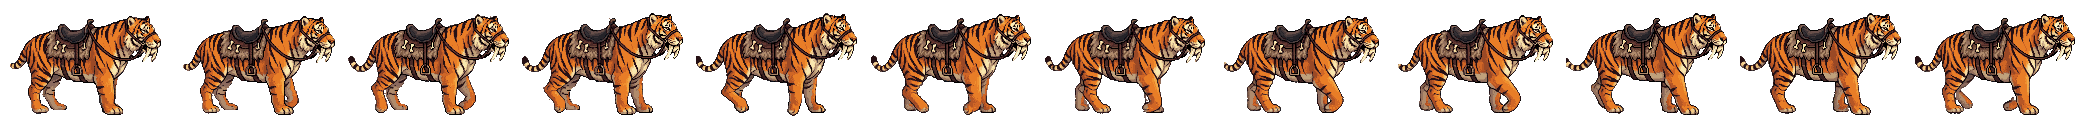
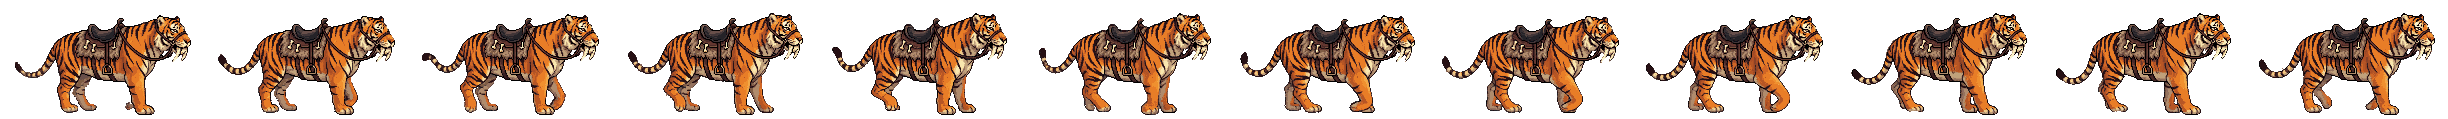
Mounts: the tiger's whole tail in every frame
Drawn again on the wider canvas: of four, 13525205 keeps the whole
striped tail with its black tip in all twelve frames, swinging up and
down, with the steadiest saddle; the head and shoulders still move as
the author accepted. The sheet is 204 px wide now, the saddle at 93, 36.

Claude-Session: https://claude.ai/code/session_01EFZUMqpHps3KDRogHBzjf3

diff --git a/DECISIONS.md b/DECISIONS.md
@@ -3023,7 +3023,7 @@ Autor: „tylko ramki i tła wchodzą póki co do gry, wszystkie”, „Wraz z r
 
 Autor: „371 B”, „372 B” i „Problemem są trochę postacie w szatach, bo u nich się to inaczej układają te szaty przy jeździe, ale podejrzewam, że szkoda zachodu i nic się nie udałoby z tym zrobić, wyszłoby tylko gorzej”.
 
-1. **Tygrys szablozębny** to najpierw wersja B, a po uwadze autora o chodzie („tylne łapy w ogóle się nie przecinają, a w chodzie powinny”; „wybierz inną z możliwych opcji tygrysa”) wersja A, która stoi z tylnymi łapami pod biodrem: pręgowany, z długimi kłami, ogonem, siodłem na futrzanej derce z kościanymi ozdobami i uzdą. Obrazek przycięty do konturu jest w `src/client/art/mounts/sabertooth.png`, a pierwsza klatka jego chodu, z miejscem na ruch łap, w `art/references/mounts/sabertooth.png`. Chód rysuje PixelLab według szkieletu, jak kłus koni (`tools/mount-gait.py`, `tools/animate-mounts-skeleton.mjs`): krok dużego kota, łapa po łapie, 12 klatek, 10 na sekundę. Po uwagach autora („Tygrys teraz chodzi jak koń”, „wygląda, jakby miał złamane te łapy albo się skradał, nie jak tygrys”) tułów i głowa zostają na wysokości z obrazka. Łapa, która stoi, jest prosta, a łapa w kroku zgina się w nadgarstku. Tylne łapy mijają się w kroku. Po kolejnej uwadze („teraz łapy dobrze, ale w ogóle jego tułów i głowa się nie ruszają, a to ma być przedmiot kosmetyczny, musi być dobry”) bark albo biodro opada, gdy jego łapa jest w powietrzu, i wraca, gdy łapa staje, więc barki i biodra kołyszą się na przemian. Głowa kiwa się w rytm przednich łap, o około 3 piksele, a ogon kołysze się płynnie. Z czterech rysunków wybrany jest ten, w którym ogon najmniej skacze. Autor: „nowa wersja jest git”.
+1. **Tygrys szablozębny** to najpierw wersja B, a po uwadze autora o chodzie („tylne łapy w ogóle się nie przecinają, a w chodzie powinny”; „wybierz inną z możliwych opcji tygrysa”) wersja A, która stoi z tylnymi łapami pod biodrem: pręgowany, z długimi kłami, ogonem, siodłem na futrzanej derce z kościanymi ozdobami i uzdą. Obrazek przycięty do konturu jest w `src/client/art/mounts/sabertooth.png`, a pierwsza klatka jego chodu, z miejscem na ruch łap, w `art/references/mounts/sabertooth.png`. Chód rysuje PixelLab według szkieletu, jak kłus koni (`tools/mount-gait.py`, `tools/animate-mounts-skeleton.mjs`): krok dużego kota, łapa po łapie, 12 klatek, 10 na sekundę. Po uwagach autora („Tygrys teraz chodzi jak koń”, „wygląda, jakby miał złamane te łapy albo się skradał, nie jak tygrys”) tułów i głowa zostają na wysokości z obrazka. Łapa, która stoi, jest prosta, a łapa w kroku zgina się w nadgarstku. Tylne łapy mijają się w kroku. Po kolejnej uwadze („teraz łapy dobrze, ale w ogóle jego tułów i głowa się nie ruszają, a to ma być przedmiot kosmetyczny, musi być dobry”) bark albo biodro opada, gdy jego łapa jest w powietrzu, i wraca, gdy łapa staje, więc barki i biodra kołyszą się na przemian. Głowa kiwa się w rytm przednich łap, o około 3 piksele, a ogon kołysze się płynnie. Z czterech rysunków wybrany jest ten, w którym ogon najmniej skacze. Autor: „nowa wersja jest git”. Potem autor zauważył, że „ogon zanika w trakcie chodu”: w 5 z 12 klatek koniec ogona dochodził do lewej krawędzi obrazka (174 px) i był ucinany. Pierwsza klatka chodu ma teraz 30 px więcej z lewej strony, a opis dla PixelLab wymienia długi pręgowany ogon z czarnym końcem. W nowym rysunku ogon jest cały w każdej klatce i kołysze się w górę i w dół.
 2. **Szaty jeźdźców zostają takie, jak są.** Postacie w długich szatach siedzą w nich tak, jak narysował je Retro Diffusion. Znika tylko druga stopa spod szaty.
 3. **Tło „Obóz nocą” (372 B):** nowa wersja z ogniskiem bliżej środka i namiotem za postacią. Zastępuje pierwszą, z ogniskiem pod postacią. Plik ten sam: `src/client/art/cosmetics/bg-camp.png`.
 
